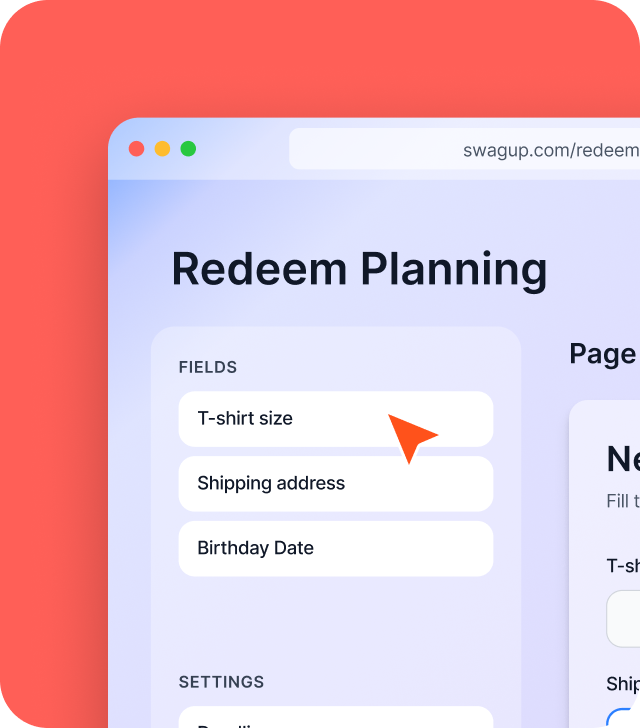
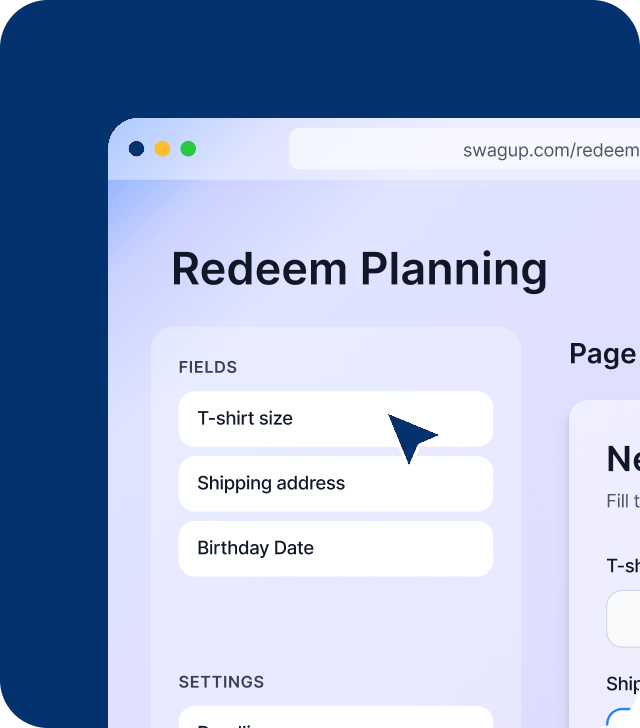
fix redeem page

diff --git a/src/components/sections/RedeemHowItWorksSection.tsx b/src/components/sections/RedeemHowItWorksSection.tsx
@@ -8,16 +8,18 @@ const STEPS = [
       </>
     ),
     description: "Add your brand colors, images, and logo.",
-    icon: "/platform/redeem/step-1-icon.png",
     image: "/platform/redeem/step-1.png",
     imageAlt: "Create your redeem page",
+    panelClass: "bg-yellow-tertiary",
+    textOnDark: false,
   },
   {
     title: "Share a Link",
     description: "Send manually or automate with HRIS integrations",
-    icon: "/platform/redeem/step-2-icon.png",
     image: "/platform/redeem/step-2.png",
     imageAlt: "Share a redeem link",
+    panelClass: "bg-blue-secondary",
+    textOnDark: true,
   },
   {
     title: (
@@ -28,9 +30,10 @@ const STEPS = [
       </>
     ),
     description: "No more wrong addresses or missing sizes.",
-    icon: "/platform/redeem/step-3-icon.png",
     image: "/platform/redeem/step-3.png",
     imageAlt: "Recipients enter info or choose items",
+    panelClass: "bg-blue-secondary",
+    textOnDark: true,
   },
   {
     title: (
@@ -41,47 +44,65 @@ const STEPS = [
       </>
     ),
     description: "Send when you're ready or ship automatically.",
-    icon: "/platform/redeem/step-4-icon.png",
     image: "/platform/redeem/step-4.png",
     imageAlt: "Collect responses or trigger shipment",
+    panelClass: "bg-yellow-tertiary",
+    textOnDark: false,
   },
 ] as const;
 
 export default function RedeemHowItWorksSection() {
   return (
     <section className="bg-white">
-      <div className="mx-auto w-full max-w-[1440px] px-5 pb-12 min-[768px]:px-11 min-[768px]:pb-16 min-[1025px]:px-16 min-[1025px]:pb-20">
-        <h2 className="m-0 mb-8 text-center font-[family-name:var(--font-satoshi)] text-2xl leading-[1.15] font-bold text-[#2C2D2E] min-[768px]:mb-12 min-[768px]:text-[2rem] min-[768px]:leading-[2.625rem] min-[1025px]:mb-12 min-[1025px]:text-[3rem] min-[1025px]:leading-[1.2]">
+      <div className="mx-auto w-full max-w-[1440px] px-5 py-16 min-[480px]:px-10 min-[992px]:py-24">
+        <h2 className="m-0 mb-8 text-center font-[family-name:var(--font-satoshi)] text-2xl leading-[1.15] font-bold text-black min-[768px]:mb-12 min-[768px]:text-[2rem] min-[768px]:leading-[2.625rem] min-[1025px]:mb-12 min-[1025px]:text-[3rem] min-[1025px]:leading-[1.2]">
           How Redeem Pages Work
         </h2>
 
         <div className="grid grid-cols-1 gap-10 min-[1025px]:grid-cols-2 min-[1025px]:gap-x-12 min-[1025px]:gap-y-12">
-          {STEPS.map((step) => (
+          {STEPS.map((step, index) => (
             <div
               key={step.image}
               className="flex flex-col gap-4 min-[768px]:flex-row min-[768px]:items-stretch min-[768px]:gap-3"
             >
-              <div className="flex flex-col justify-center rounded-2xl bg-[#F0F2FF] px-5 py-6 min-[768px]:w-[48%] min-[768px]:shrink-0 min-[768px]:rounded-[24px] min-[768px]:px-7 min-[768px]:py-8">
-                {/* eslint-disable-next-line @next/next/no-img-element */}
-                <img
-                  src={step.icon}
-                  alt=""
-                  className="mb-5 h-8 w-8 object-contain"
-                />
-                <h3 className="m-0 mb-4 font-[family-name:var(--font-satoshi)] text-xl leading-[1.2] font-medium text-[#1B1B1C] min-[768px]:mb-6 min-[768px]:text-[1.75rem]">
+              <div
+                className={`flex flex-col justify-start rounded-2xl px-5 py-6 min-[768px]:w-[48%] min-[768px]:shrink-0 min-[768px]:rounded-[24px] min-[768px]:px-7 min-[768px]:py-8 ${step.panelClass}`}
+              >
+                <span
+                  className={
+                    step.textOnDark
+                      ? "mb-5 flex size-8 shrink-0 items-center justify-center rounded-full bg-yellow-secondary font-[family-name:var(--font-satoshi)] text-sm leading-none font-bold text-blue-primary"
+                      : "mb-5 flex size-8 shrink-0 items-center justify-center rounded-full bg-blue-primary font-[family-name:var(--font-satoshi)] text-sm leading-none font-bold text-yellow-secondary"
+                  }
+                >
+                  {index + 1}
+                </span>
+                <h3
+                  className={
+                    step.textOnDark
+                      ? "m-0 mb-4 font-[family-name:var(--font-satoshi)] text-xl leading-[1.2] font-semibold text-yellow-secondary min-[768px]:mb-6 min-[768px]:text-[1.75rem]"
+                      : "m-0 mb-4 font-[family-name:var(--font-satoshi)] text-xl leading-[1.2] font-semibold text-blue-primary min-[768px]:mb-6 min-[768px]:text-[1.75rem]"
+                  }
+                >
                   {step.title}
                 </h3>
-                <p className="m-0 font-[family-name:var(--font-overpass)] text-sm leading-[1.3] text-[#1B1B1C] min-[768px]:text-base">
+                <p
+                  className={
+                    step.textOnDark
+                      ? "m-0 font-[family-name:var(--font-overpass)] text-sm leading-[1.3] text-white min-[768px]:text-base"
+                      : "m-0 font-[family-name:var(--font-overpass)] text-sm leading-[1.3] text-black min-[768px]:text-base"
+                  }
+                >
                   {step.description}
                 </p>
               </div>
 
-              <div className="min-w-0 flex-1">
+              <div className="min-w-0 flex-1 overflow-hidden rounded-2xl min-[768px]:rounded-[24px]">
                 {/* eslint-disable-next-line @next/next/no-img-element */}
                 <img
                   src={step.image}
                   alt={step.imageAlt}
-                  className="block h-full w-full rounded-2xl object-cover object-left min-[768px]:rounded-[24px]"
+                  className="block h-full w-full object-cover object-left"
                 />
               </div>
             </div>

diff --git a/src/components/sections/RedeemTwoWaysSection.tsx b/src/components/sections/RedeemTwoWaysSection.tsx
@@ -13,7 +13,8 @@ const WAYS = [
       "Sizing collection, product selection, pre-event or pre-onboarding planning",
     image: "/platform/redeem/collection-page.png",
     imageAlt: "Collection redeem page planning preview",
-    panelClass: "bg-[#FFEFF7]",
+    panelClass: "bg-yellow-tertiary",
+    textOnDark: false,
   },
   {
     title: (
@@ -29,15 +30,16 @@ const WAYS = [
       "onboarding, ongoing programs, time-sensitive sends, automated workflows",
     image: "/platform/redeem/auto-ship-page.png",
     imageAlt: "Auto-ship redeem page confirmation preview",
-    panelClass: "bg-[#F7FEE7]",
+    panelClass: "bg-blue-secondary",
+    textOnDark: true,
   },
 ] as const;
 
 export default function RedeemTwoWaysSection() {
   return (
     <section className="bg-white">
-      <div className="mx-auto w-full max-w-[1440px] px-5 py-12 min-[768px]:px-11 min-[768px]:py-16 min-[1025px]:px-16 min-[1025px]:py-20">
-        <h2 className="m-0 mb-8 text-center font-[family-name:var(--font-satoshi)] text-2xl leading-[1.15] font-bold text-[#2C2D2E] min-[768px]:mb-12 min-[768px]:text-[2rem] min-[768px]:leading-[2.625rem] min-[1025px]:mb-12 min-[1025px]:text-[3rem] min-[1025px]:leading-[1.2]">
+      <div className="mx-auto w-full max-w-[1440px] px-5 py-16 min-[480px]:px-10 min-[992px]:py-24">
+        <h2 className="m-0 mb-8 text-center font-[family-name:var(--font-satoshi)] text-2xl leading-[1.15] font-bold text-black min-[768px]:mb-12 min-[768px]:text-[2rem] min-[768px]:leading-[2.625rem] min-[1025px]:mb-12 min-[1025px]:text-[3rem] min-[1025px]:leading-[1.2]">
           Two Ways to Use Redeem Pages
         </h2>
 
@@ -50,23 +52,41 @@ export default function RedeemTwoWaysSection() {
               <div
                 className={`flex flex-col justify-center rounded-2xl px-5 py-6 min-[768px]:w-[48%] min-[768px]:shrink-0 min-[768px]:rounded-[24px] min-[768px]:px-7 min-[768px]:py-8 ${way.panelClass}`}
               >
-                <h3 className="m-0 mb-4 font-[family-name:var(--font-satoshi)] text-xl leading-[1.2] font-medium text-[#1B1B1C] min-[768px]:text-2xl">
+                <h3
+                  className={
+                    way.textOnDark
+                      ? "m-0 mb-4 font-[family-name:var(--font-satoshi)] text-xl leading-[1.2] font-semibold text-yellow-secondary min-[768px]:text-2xl"
+                      : "m-0 mb-4 font-[family-name:var(--font-satoshi)] text-xl leading-[1.2] font-semibold text-blue-primary min-[768px]:text-2xl"
+                  }
+                >
                   {way.title}
                 </h3>
-                <p className="m-0 mb-4 font-[family-name:var(--font-overpass)] text-sm leading-[1.3] text-[#1B1B1C] min-[768px]:text-base">
+                <p
+                  className={
+                    way.textOnDark
+                      ? "m-0 mb-4 font-[family-name:var(--font-overpass)] text-sm leading-[1.3] text-white min-[768px]:text-base"
+                      : "m-0 mb-4 font-[family-name:var(--font-overpass)] text-sm leading-[1.3] text-black min-[768px]:text-base"
+                  }
+                >
                   {way.description}
                 </p>
-                <p className="m-0 font-[family-name:var(--font-overpass)] text-sm leading-[1.3] text-[#1B1B1C] min-[768px]:text-base">
+                <p
+                  className={
+                    way.textOnDark
+                      ? "m-0 font-[family-name:var(--font-overpass)] text-sm leading-[1.3] text-white min-[768px]:text-base"
+                      : "m-0 font-[family-name:var(--font-overpass)] text-sm leading-[1.3] text-black min-[768px]:text-base"
+                  }
+                >
                   <span className="font-semibold">Best for:</span> {way.bestFor}
                 </p>
               </div>
 
-              <div className="min-w-0 flex-1">
+              <div className="min-w-0 flex-1 overflow-hidden rounded-2xl min-[768px]:rounded-[24px]">
                 {/* eslint-disable-next-line @next/next/no-img-element */}
                 <img
                   src={way.image}
                   alt={way.imageAlt}
-                  className="block h-full w-full rounded-2xl object-cover object-left min-[768px]:rounded-[24px]"
+                  className="block h-full w-full object-cover object-left"
                 />
               </div>
             </div>

diff --git a/src/components/sections/RedeemTeamsUseSection.tsx b/src/components/sections/RedeemTeamsUseSection.tsx
@@ -4,36 +4,36 @@ const TEAMS = [
     useCase: "Onboarding",
     description: "Let new hires claim their swag via a simple link",
     image: "/platform/redeem/team-deel.png",
-    badgeClass: "bg-[#C8FF6B] text-[#1B1B1C]",
+    badgeClass: "bg-yellow-secondary text-blue-primary",
   },
   {
     company: "JustWorks",
     useCase: "Events",
     description: "Collect info and send swag post-event at scale",
     image: "/platform/redeem/team-justworks.png",
-    badgeClass: "bg-[#F54900] text-white",
+    badgeClass: "bg-blue-primary text-yellow-secondary",
   },
   {
     company: "Founders Network",
     useCase: "Marketing Campaigns",
     description: "Send swag to leads, prospects, or customers",
     image: "/platform/redeem/team-founders-network.png",
-    badgeClass: "bg-[#FFB8D9] text-white",
+    badgeClass: "bg-yellow-secondary text-blue-primary",
   },
   {
     company: "Tithe.ly",
     useCase: "Giveaways",
     description: "Distribute secure, single-use links to winners",
     image: "/platform/redeem/team-tithely.png",
-    badgeClass: "bg-[#155DFC] text-white",
+    badgeClass: "bg-blue-primary text-yellow-secondary",
   },
 ] as const;
 
 export default function RedeemTeamsUseSection() {
   return (
-    <section className="bg-white">
-      <div className="mx-auto w-full max-w-[1440px] px-5 pb-12 min-[768px]:px-11 min-[768px]:pb-16 min-[1025px]:px-16 min-[1025px]:pb-20">
-        <h2 className="m-0 mb-8 text-center font-[family-name:var(--font-satoshi)] text-2xl leading-[1.15] font-bold text-[#2C2D2E] min-[768px]:mb-12 min-[768px]:text-[2rem] min-[768px]:leading-[2.625rem] min-[1025px]:mb-12 min-[1025px]:text-[3rem] min-[1025px]:leading-[1.2]">
+    <section className="bg-surface">
+      <div className="mx-auto w-full max-w-[1440px] px-5 py-16 min-[480px]:px-10 min-[992px]:py-24">
+        <h2 className="m-0 mb-8 text-center font-[family-name:var(--font-satoshi)] text-2xl leading-[1.15] font-bold text-black min-[768px]:mb-12 min-[768px]:text-[2rem] min-[768px]:leading-[2.625rem] min-[1025px]:mb-12 min-[1025px]:text-[3rem] min-[1025px]:leading-[1.2]">
           How Teams Use Redeem Pages
         </h2>
 
@@ -41,7 +41,7 @@ export default function RedeemTeamsUseSection() {
           {TEAMS.map((team) => (
             <article
               key={team.company}
-              className="overflow-hidden rounded-2xl border border-[#F3F4F6] min-[768px]:rounded-[24px]"
+              className="overflow-hidden rounded-2xl border border-blue-primary/10 bg-white min-[768px]:rounded-[24px]"
             >
               {/* eslint-disable-next-line @next/next/no-img-element */}
               <img
@@ -57,11 +57,11 @@ export default function RedeemTeamsUseSection() {
                   {team.company}
                 </span>
 
-                <h3 className="m-0 mt-2 py-2 font-[family-name:var(--font-satoshi)] text-xl leading-[1.2] font-medium text-[#1B1B1C] min-[768px]:text-2xl">
+                <h3 className="m-0 mt-2 py-2 font-[family-name:var(--font-satoshi)] text-xl leading-[1.2] font-semibold text-blue-primary min-[768px]:text-2xl">
                   {team.useCase}
                 </h3>
 
-                <p className="m-0 font-[family-name:var(--font-overpass)] text-sm leading-[1.3] text-[#1B1B1C] min-[768px]:text-base">
+                <p className="m-0 font-[family-name:var(--font-overpass)] text-sm leading-[1.3] text-black min-[768px]:text-base">
                   {team.description}
                 </p>
               </div>

diff --git a/src/components/sections/RedeemHeroSection.tsx b/src/components/sections/RedeemHeroSection.tsx
@@ -1,21 +1,22 @@
 import Link from "next/link";
+import { ArrowUpRight } from "lucide-react";
 
 export default function RedeemHeroSection() {
   return (
     <section
-      className="font-[family-name:var(--font-lexend)] text-[#221e26]"
+      className="font-[family-name:var(--font-lexend)] text-yellow-secondary"
       style={{
         backgroundImage:
-          "url(/platform/crm/grid-bg.svg), linear-gradient(93deg, #eee0ff, #f4f1f9)",
+          "url(/platform/redeem/grid-bg.svg), linear-gradient(to right, var(--blue-primary), color-mix(in srgb, var(--blue-secondary) 72%, white))",
         backgroundPosition: "50% 0, 0 0",
         backgroundRepeat: "no-repeat, repeat",
         backgroundSize: "cover, auto",
       }}
     >
-      <div className="px-5 pt-16 pb-10 min-[480px]:px-10 min-[768px]:pt-16 min-[768px]:pb-12 min-[992px]:pt-16 min-[992px]:pb-16 min-[992px]:pl-12 min-[992px]:pr-0">
+      <div className="px-5 pt-24 pb-16 min-[480px]:px-10 min-[768px]:pt-28 min-[992px]:pt-32 min-[992px]:pb-24 min-[992px]:pl-12 min-[992px]:pr-0">
         <div className="mx-auto grid w-full max-w-[90rem] grid-cols-1 items-center gap-10 min-[992px]:grid-cols-2 min-[992px]:items-start min-[992px]:gap-12">
-          <div className="w-full max-w-[40rem] min-[992px]:pt-32">
-            <h1 className="m-0 text-[2.25rem] leading-[1.1] font-normal tracking-[-0.06rem] text-[#221e26] min-[768px]:text-[3rem] min-[768px]:tracking-[-0.12rem] min-[992px]:text-[3.875rem] min-[992px]:tracking-[-0.155rem]">
+          <div className="w-full max-w-[40rem] min-[992px]:pt-16">
+            <h1 className="m-0 text-[2.25rem] leading-[1.1] font-normal tracking-[-0.06rem] text-yellow-secondary min-[768px]:text-[3rem] min-[768px]:tracking-[-0.12rem] min-[992px]:text-[3.875rem] min-[992px]:tracking-[-0.155rem]">
               Redeem Pages For
               <br />
               <span className="whitespace-nowrap">Easy Swag Distribution</span>
@@ -23,7 +24,7 @@ export default function RedeemHeroSection() {
 
             <div className="pt-3 min-[768px]:pt-4 min-[992px]:pt-6" />
 
-            <p className="m-0 text-base leading-[1.5] font-light text-[#524f55] min-[768px]:text-[1.125rem]">
+            <p className="m-0 text-base leading-[1.5] font-light text-white min-[768px]:text-[1.125rem]">
               Create branded redeem pages where recipients can enter their
               details, choose items, and receive swag—all through a simple
               shared link.
@@ -33,9 +34,13 @@ export default function RedeemHeroSection() {
 
             <Link
               href="/contact"
-              className="inline-block rounded-[3rem] border-2 border-[#fffcd3] bg-[#fff34a] px-6 py-4 text-center text-base leading-none font-normal text-[#221e26] no-underline transition-colors hover:bg-[#fff784] active:bg-[#ccc23b]"
+              className="group inline-flex items-center gap-2 rounded-[3rem] bg-yellow-secondary px-5 py-3.5 text-center text-base leading-none font-normal text-blue-primary no-underline"
             >
               Book a demo
+              <ArrowUpRight
+                className="size-5 shrink-0 stroke-[2.5] transition-transform duration-200 ease-out group-hover:scale-130"
+                aria-hidden
+              />
             </Link>
           </div>
 

diff --git a/src/components/sections/RedeemCtaSection.tsx b/src/components/sections/RedeemCtaSection.tsx
@@ -1,12 +1,13 @@
 import Link from "next/link";
+import { ArrowUpRight } from "lucide-react";
 
 export default function RedeemCtaSection() {
   return (
     <section className="bg-white">
-      <div className="mx-auto w-full max-w-[1440px] px-5 pb-12 min-[768px]:px-11 min-[768px]:pb-16 min-[1025px]:px-16 min-[1025px]:pb-20">
+      <div className="mx-auto w-full max-w-[1440px] px-5 py-16 min-[480px]:px-10 min-[992px]:py-24">
         <div className="flex flex-col overflow-hidden rounded-2xl min-[768px]:rounded-[24px] min-[1025px]:flex-row">
-          <div className="flex w-full flex-col items-start justify-center bg-[#1E0099] px-6 py-10 min-[768px]:px-12 min-[768px]:py-12 min-[1025px]:w-1/2 min-[1025px]:px-[50px] min-[1025px]:py-[50px]">
-            <h2 className="m-0 mb-4 max-w-[26rem] font-[family-name:var(--font-satoshi)] text-[1.75rem] leading-[1.2] font-bold text-white min-[768px]:text-[2.375rem] min-[1025px]:text-[3rem]">
+          <div className="flex w-full flex-col items-start justify-center bg-blue-primary px-6 py-10 min-[768px]:px-12 min-[768px]:py-12 min-[1025px]:w-1/2 min-[1025px]:px-[50px] min-[1025px]:py-[50px]">
+            <h2 className="m-0 mb-4 max-w-[26rem] font-[family-name:var(--font-satoshi)] text-[1.75rem] leading-[1.2] font-bold text-yellow-secondary min-[768px]:text-[2.375rem] min-[1025px]:text-[3rem]">
               Start Sending Swag in Minutes
             </h2>
             <p className="m-0 mb-8 max-w-[19rem] font-[family-name:var(--font-overpass)] text-sm leading-[1.3] text-white min-[768px]:mb-12 min-[768px]:text-base">
@@ -14,13 +15,17 @@ export default function RedeemCtaSection() {
             </p>
             <Link
               href="/contact"
-              className="inline-block rounded-[3rem] border-2 border-[#fffcd3] bg-[#fff34a] px-6 py-4 text-center font-[family-name:var(--font-lexend)] text-base leading-none font-normal text-[#221e26] no-underline transition-colors hover:bg-[#fff784] active:bg-[#ccc23b]"
+              className="group inline-flex items-center gap-2 rounded-[3rem] bg-yellow-secondary px-5 py-3.5 text-center font-[family-name:var(--font-lexend)] text-base leading-none font-normal text-blue-primary no-underline"
             >
               Book a demo
+              <ArrowUpRight
+                className="size-5 shrink-0 stroke-[2.5] transition-transform duration-200 ease-out group-hover:scale-130"
+                aria-hidden
+              />
             </Link>
           </div>
 
-          <div className="flex w-full items-center justify-center bg-[#5567FF] min-[1025px]:w-1/2">
+          <div className="flex w-full items-center justify-center bg-blue-secondary min-[1025px]:w-1/2">
             {/* eslint-disable-next-line @next/next/no-img-element */}
             <img
               src="/platform/redeem/cta-banner.png"
